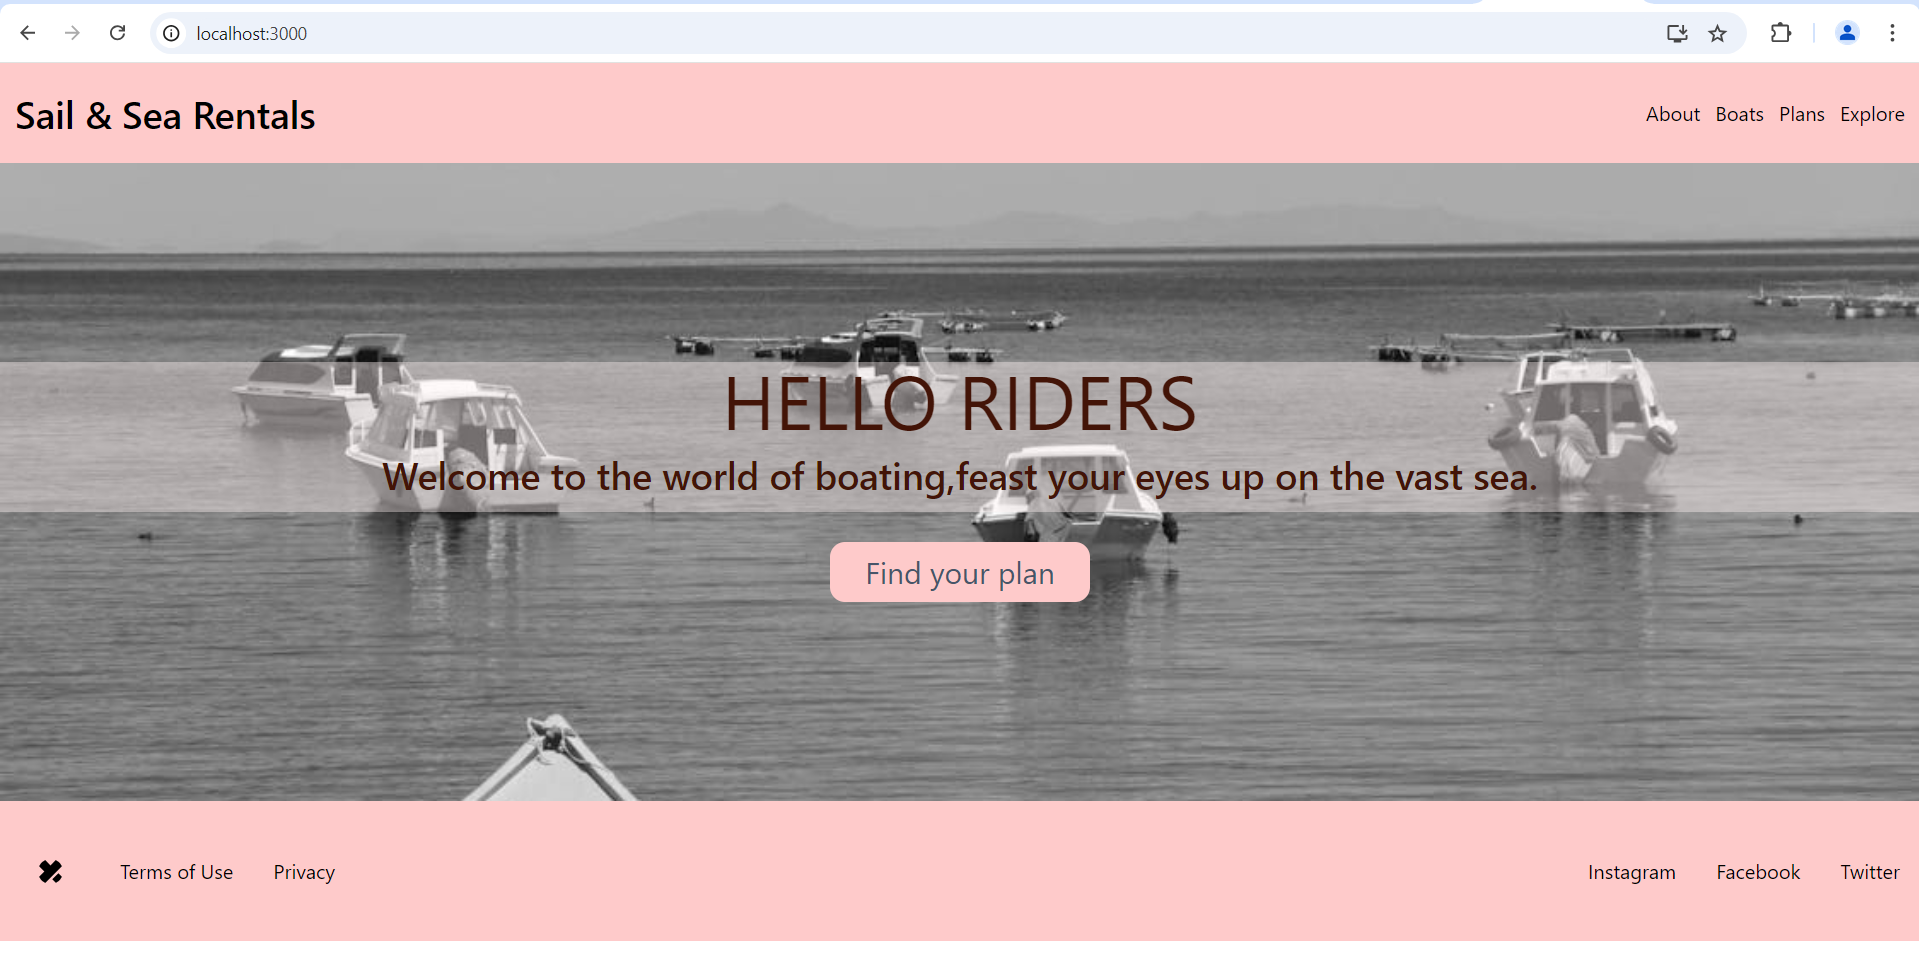
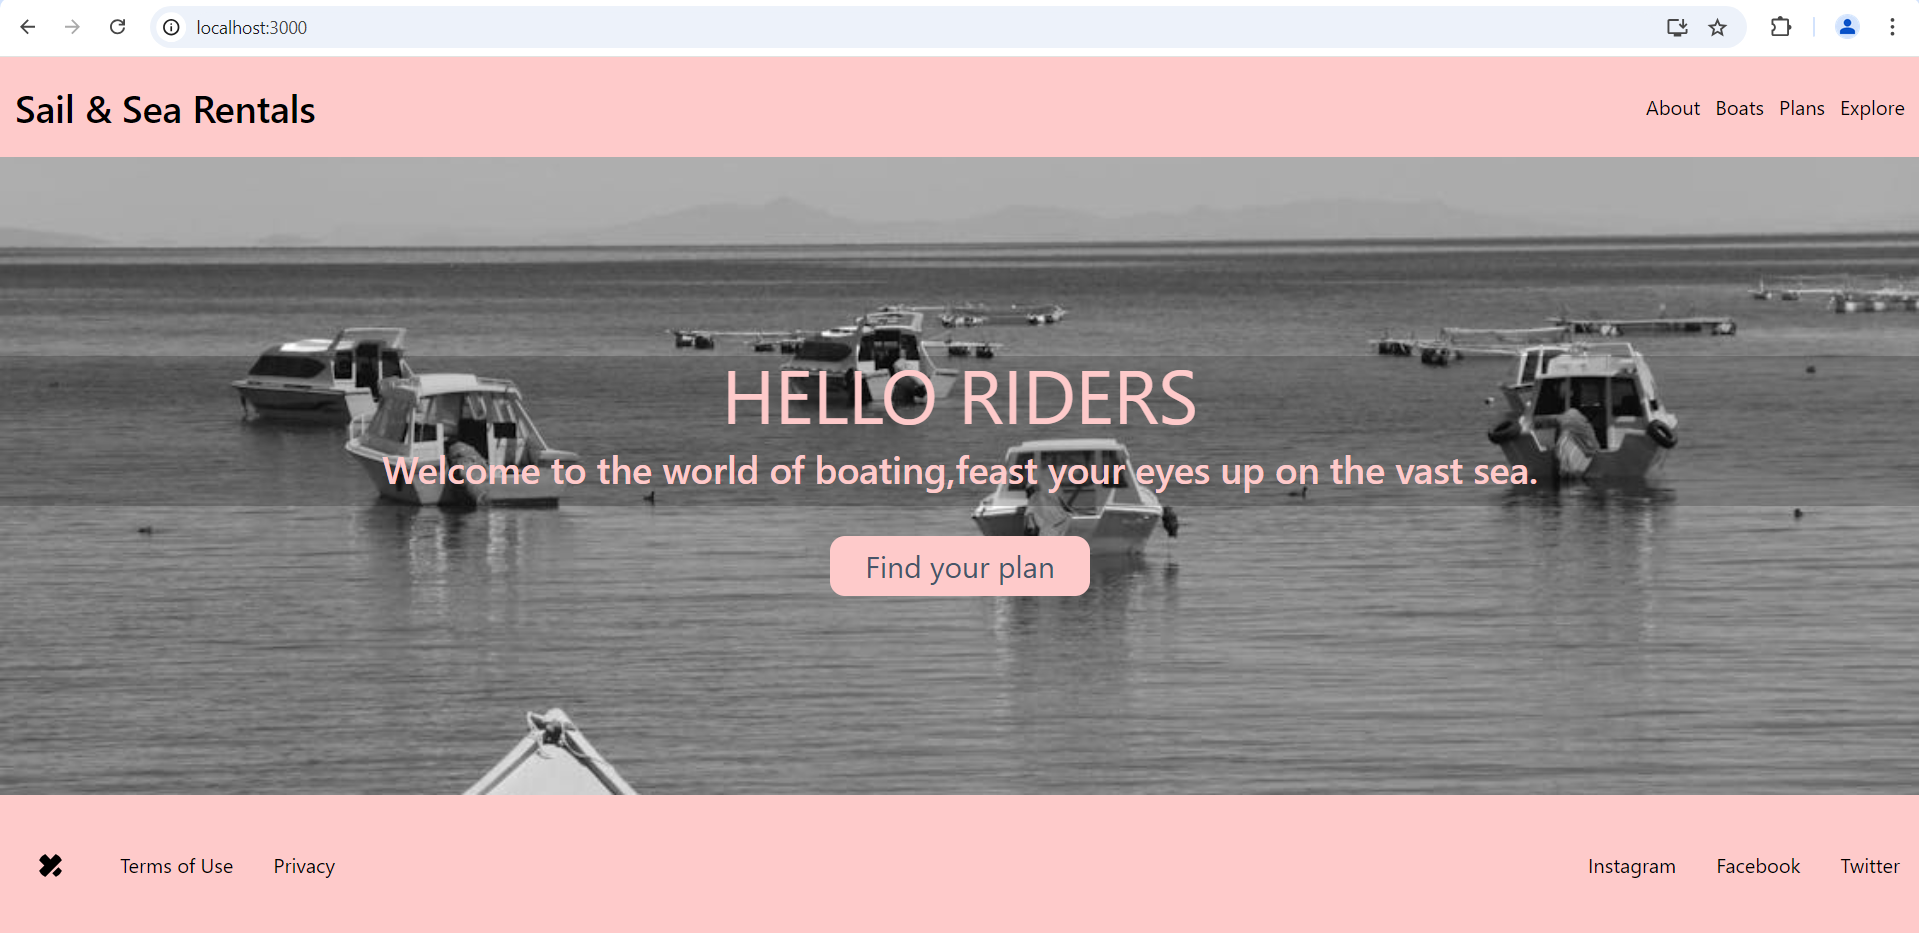
final commit

diff --git a/src/pages/Home.js b/src/pages/Home.js
@@ -7,7 +7,7 @@ const Home = () => {
   return (
     <Layout>
     <div className='flex items-center flex-col gap-6 justify-center w-full h-[70vh] bg-no-repeat bg-center bg-cover bg-[url(https://images.pexels.com/photos/27774130/pexels-photo-27774130/free-photo-of-float.jpeg?auto=compress&cs=tinysrgb&w=1260&h=750&dpr=1/)] '> 
-    <div className='flex flex-col w-full gap-3 justify-center items-center text-orange-950 bg-red-50 bg-opacity-40 pb-3'>
+    <div className='flex flex-col w-full gap-3 justify-center items-center text-red-200 bg-black bg-opacity-20 pb-3'>
     <h1 className='text-2xl lg:text-6xl fond-bold'>HELLO RIDERS </h1>
     <h2 className='text-base lg:text-3xl font-semibold'>Welcome to the world of boating,feast your eyes up on the vast sea.</h2>
     </div>
